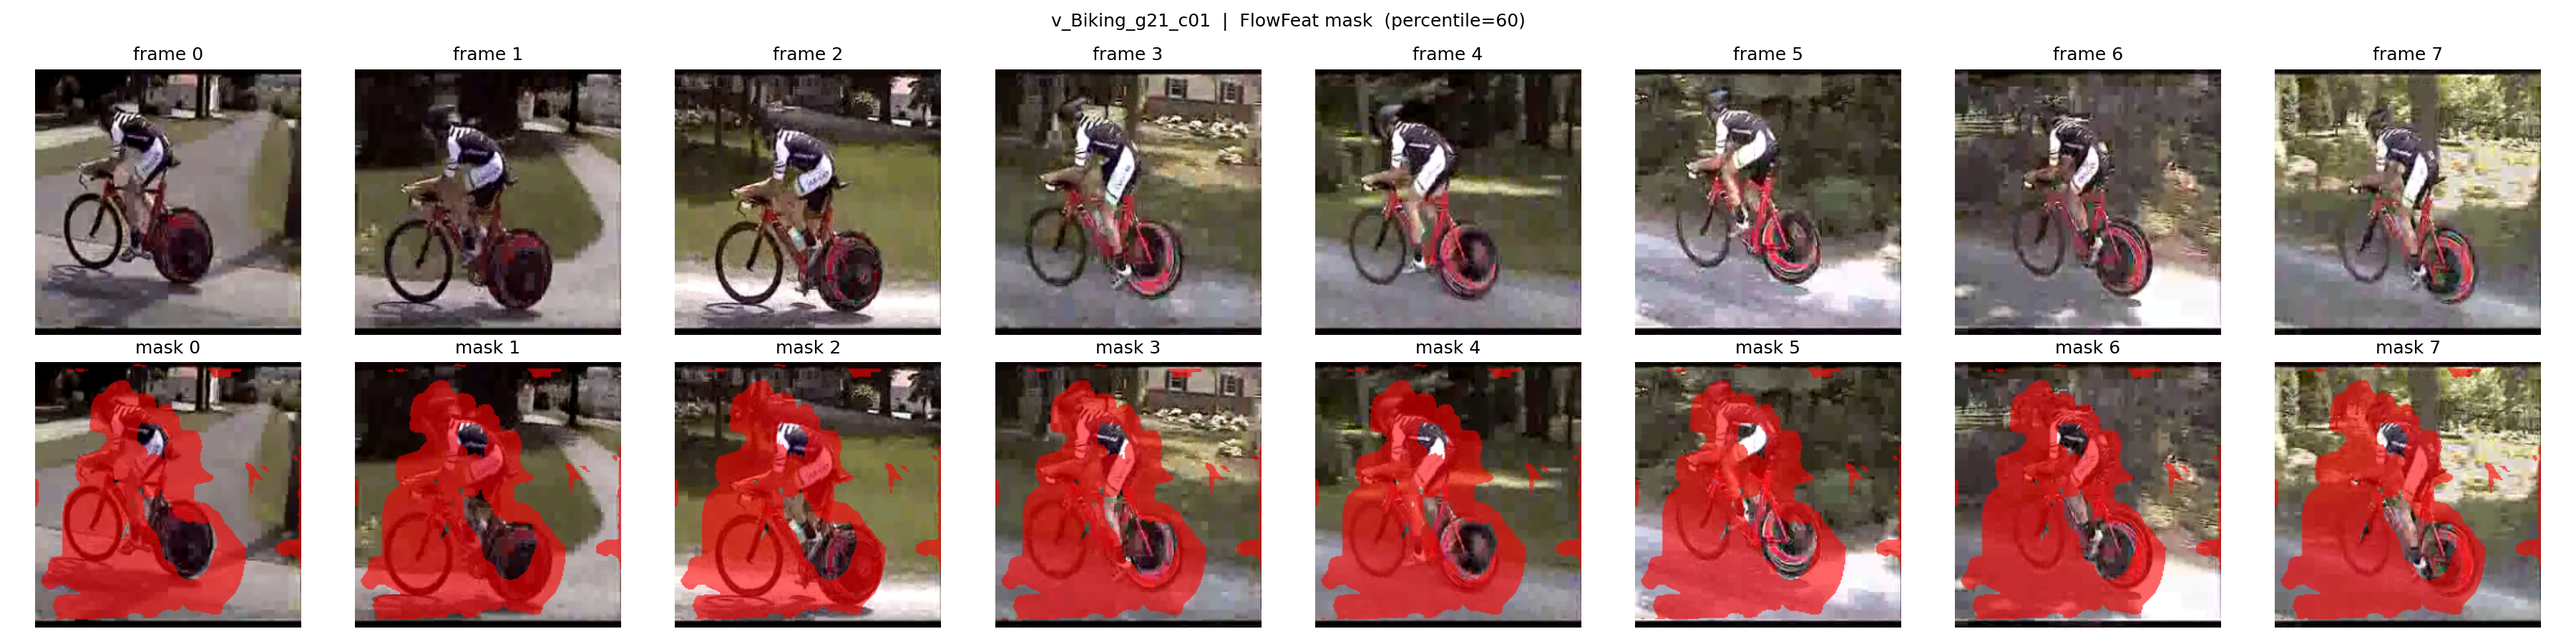
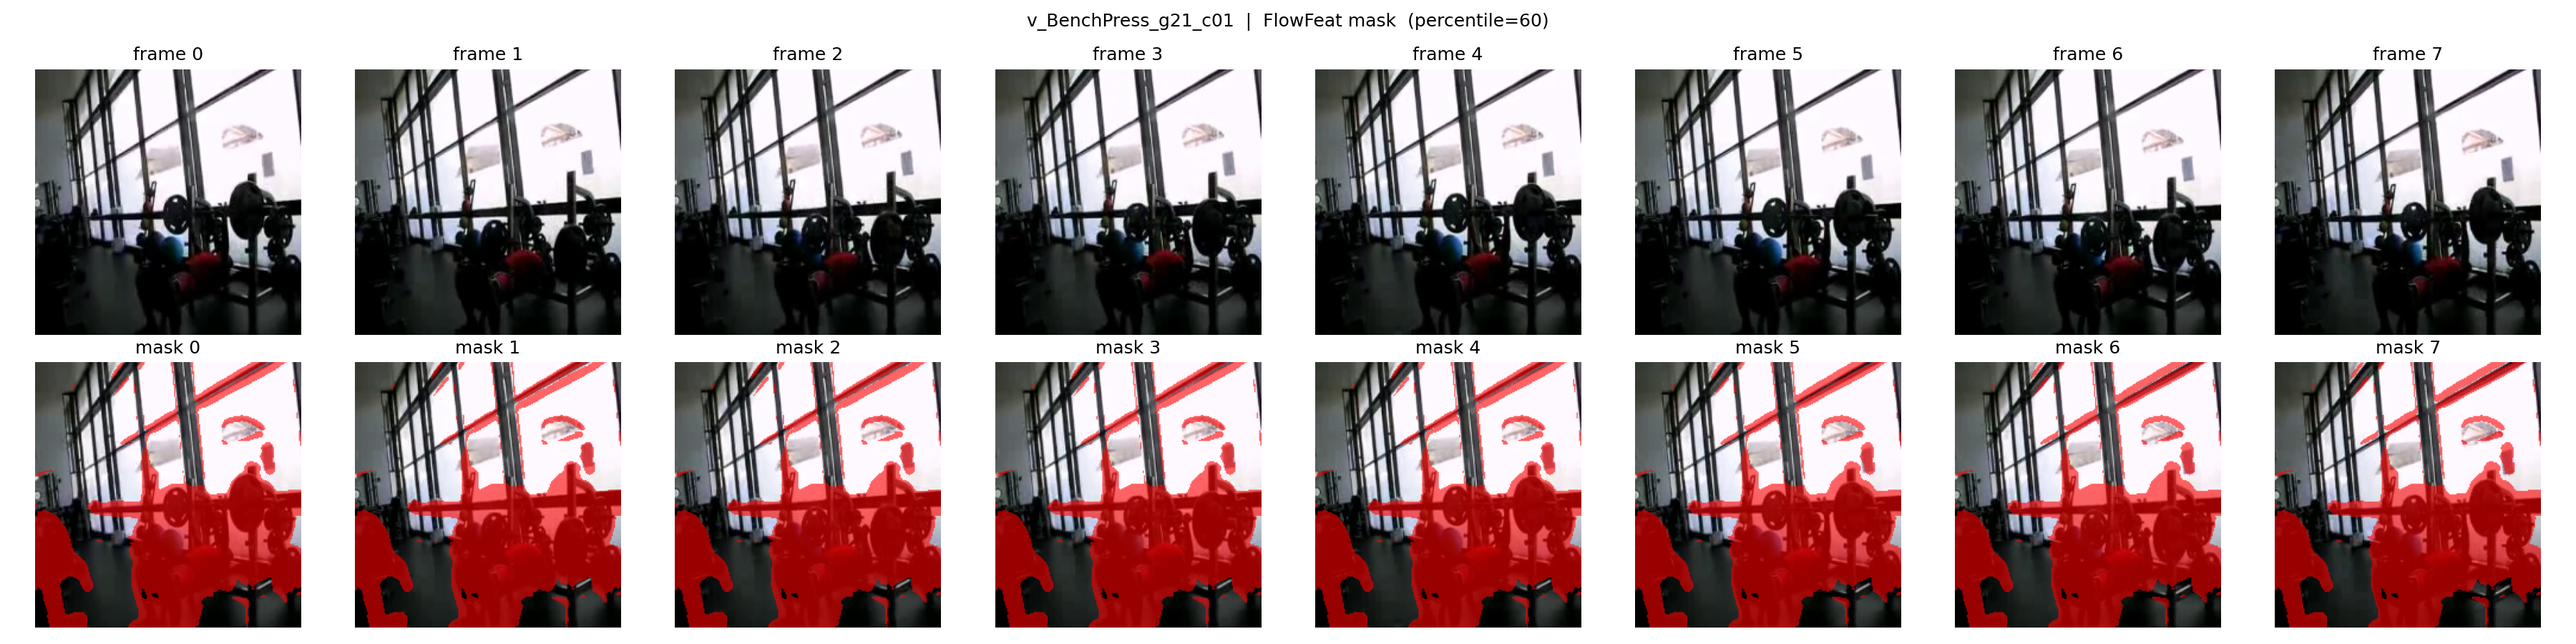
dino comparisons

diff --git a/DiffTrack/point_sampling/flowfeat_mask.py b/DiffTrack/point_sampling/flowfeat_mask.py
@@ -2,17 +2,15 @@ import torch
 import torch.nn.functional as F
 import numpy as np
 import matplotlib
-matplotlib.use('Agg')
+matplotlib.use('Agg') #not use gui
 import matplotlib.pyplot as plt
 import cv2
-import os
 
-VIDEO_NAME  = 'v_Biking_g21_c01'
+VIDEO_NAME  = 'v_BreastStroke_g22_c01'
 VIDEO_PATH  = f'UCF_Rep/val/{VIDEO_NAME}.mp4'
-OUTPUT_PATH = 'point_sampling/flowfeat_mask.png'
+OUTPUT_PATH = 'point_sampling/flowfeat_pca.png'
 
 NUM_FRAMES  = 8
-PERCENTILE  = 60
 SIZE        = (224, 224)
 
 
@@ -20,10 +18,14 @@ def load_flowfeat(model_name='dinov2_vitb14_kt', device='cuda'):
     model = torch.hub.load('tum-vision/flowfeat', 'flowfeat', name=model_name, pretrained=True)
     return model.to(device).eval()
 
+
 @torch.no_grad()
-def get_flowfeat_mask(pixels, flowfeat_model):
+def get_flowfeat(pixels, flowfeat_model):
+    """Return the raw FlowFeat decoder features, upsampled to input size.
+
+    Output shape: [B, T, feat_dim, H, W]
+    """
     B, T, C, H, W = pixels.shape
-    device = pixels.device
 
     frames_flat = pixels.view(B * T, C, H, W)
     outputs = flowfeat_model(frames_flat)
@@ -39,18 +41,37 @@ def get_flowfeat_mask(pixels, flowfeat_model):
             decoder_feats, size=(H, W), mode='bilinear', align_corners=False
         )
 
-    decoder_feats = F.normalize(decoder_feats, dim=1)
-    decoder_feats = decoder_feats.view(B, T, feat_dim, H, W)
+    return decoder_feats.view(B, T, feat_dim, H, W)
 
-    mean_feat = decoder_feats.mean(dim=1, keepdim=True)
-    variance  = ((decoder_feats - mean_feat) ** 2).mean(dim=(1, 2))  # [B, H, W]
 
-    thresh = torch.quantile(
-        variance.view(B, -1), PERCENTILE / 100.0, dim=1
-    ).view(B, 1, 1)
+@torch.no_grad()
+def feats_to_rgb(decoder_feats):
+    """PCA the FlowFeat channels down to 3 -> RGB, jointly over all frames.
 
-    binary_mask = (variance > thresh).float()
-    return binary_mask.unsqueeze(1).unsqueeze(2).expand(-1, T, 1, -1, -1).contiguous()
+    Fitting one PCA over the whole clip keeps the colour mapping consistent
+    across frames, so temporal consistency is visible.
+
+    Input : [B, T, C, H, W]   (assumes B == 1)
+    Output: [T, H, W, 3] in [0, 1]
+    """
+    B, T, C, H, W = decoder_feats.shape
+    assert B == 1, "visualization assumes batch size 1"
+
+    # [T*H*W, C]
+    feats = decoder_feats[0].permute(0, 2, 3, 1).reshape(-1, C).float()
+
+    # center, then project onto top-3 principal components
+    mean = feats.mean(dim=0, keepdim=True)
+    centered = feats - mean
+    _, _, V = torch.pca_lowrank(centered, q=3)
+    proj = centered @ V[:, :3]              # [T*H*W, 3]
+
+    # min-max normalize each component over the whole volume -> [0, 1]
+    lo = proj.min(dim=0, keepdim=True).values
+    hi = proj.max(dim=0, keepdim=True).values
+    rgb = (proj - lo) / (hi - lo + 1e-8)
+
+    return rgb.reshape(T, H, W, 3).cpu().numpy()
 
 
 def load_video_frames(mp4_path):
@@ -94,27 +115,23 @@ if __name__ == '__main__':
     print(f"Loading video: {VIDEO_PATH}")
     pixels = load_video_frames(VIDEO_PATH).to(device)
 
-    print("Computing mask...")
-    mask = get_flowfeat_mask(pixels, model)   # [1, T, 1, 224, 224]
+    print("Extracting FlowFeat features...")
+    feats = get_flowfeat(pixels, model)     # [1, T, C, 224, 224]
+    rgb   = feats_to_rgb(feats)             # [T, 224, 224, 3]
 
     T = pixels.shape[1]
     fig, axes = plt.subplots(2, T, figsize=(3 * T, 6))
 
     for t in range(T):
-        img = denorm(pixels[0, t])
-        msk = mask[0, t, 0].cpu().numpy()
-
-        axes[0, t].imshow(img)
+        axes[0, t].imshow(denorm(pixels[0, t]))
         axes[0, t].set_title(f'frame {t}')
         axes[0, t].axis('off')
 
-        overlay = img.copy()
-        overlay[msk == 1] = overlay[msk == 1] * 0.4 + np.array([1, 0, 0]) * 0.6
-        axes[1, t].imshow(overlay)
-        axes[1, t].set_title(f'mask {t}')
+        axes[1, t].imshow(rgb[t])
+        axes[1, t].set_title(f'flowfeat {t}')
         axes[1, t].axis('off')
 
-    plt.suptitle(f'{VIDEO_NAME}  |  FlowFeat mask  (percentile={PERCENTILE})')
+    plt.suptitle(f'{VIDEO_NAME}  |  raw FlowFeat (PCA->RGB, shared across frames)')
     plt.tight_layout()
     plt.savefig(OUTPUT_PATH, dpi=150)
     plt.close(fig)

diff --git a/DiffTrack/point_sampling/dino_pca.py b/DiffTrack/point_sampling/dino_pca.py
@@ -1,0 +1,21 @@
+import torch
+import torch.nn.functional as F
+import numpy as np
+import matplotlib
+matplotlib.use('Agg')
+import matplotlib.pyplot as plt
+import cv2
+
+VIDEO_NAME  = 'v_BreastStroke_g22_c01'
+VIDEO_PATH  = f'UCF_Rep/val/{VIDEO_NAME}.mp4'
+OUTPUT_PATH = 'point_sampling/flowfeat_pca.png'
+
+NUM_FRAMES  = 1
+SIZE        = (224, 224)
+
+
+def get_dino_feats(model_name = , device = 'cuda'):
+    '''
+    getting a tensor of shape- [B, 37, 37, 768] 
+    '''
+    
